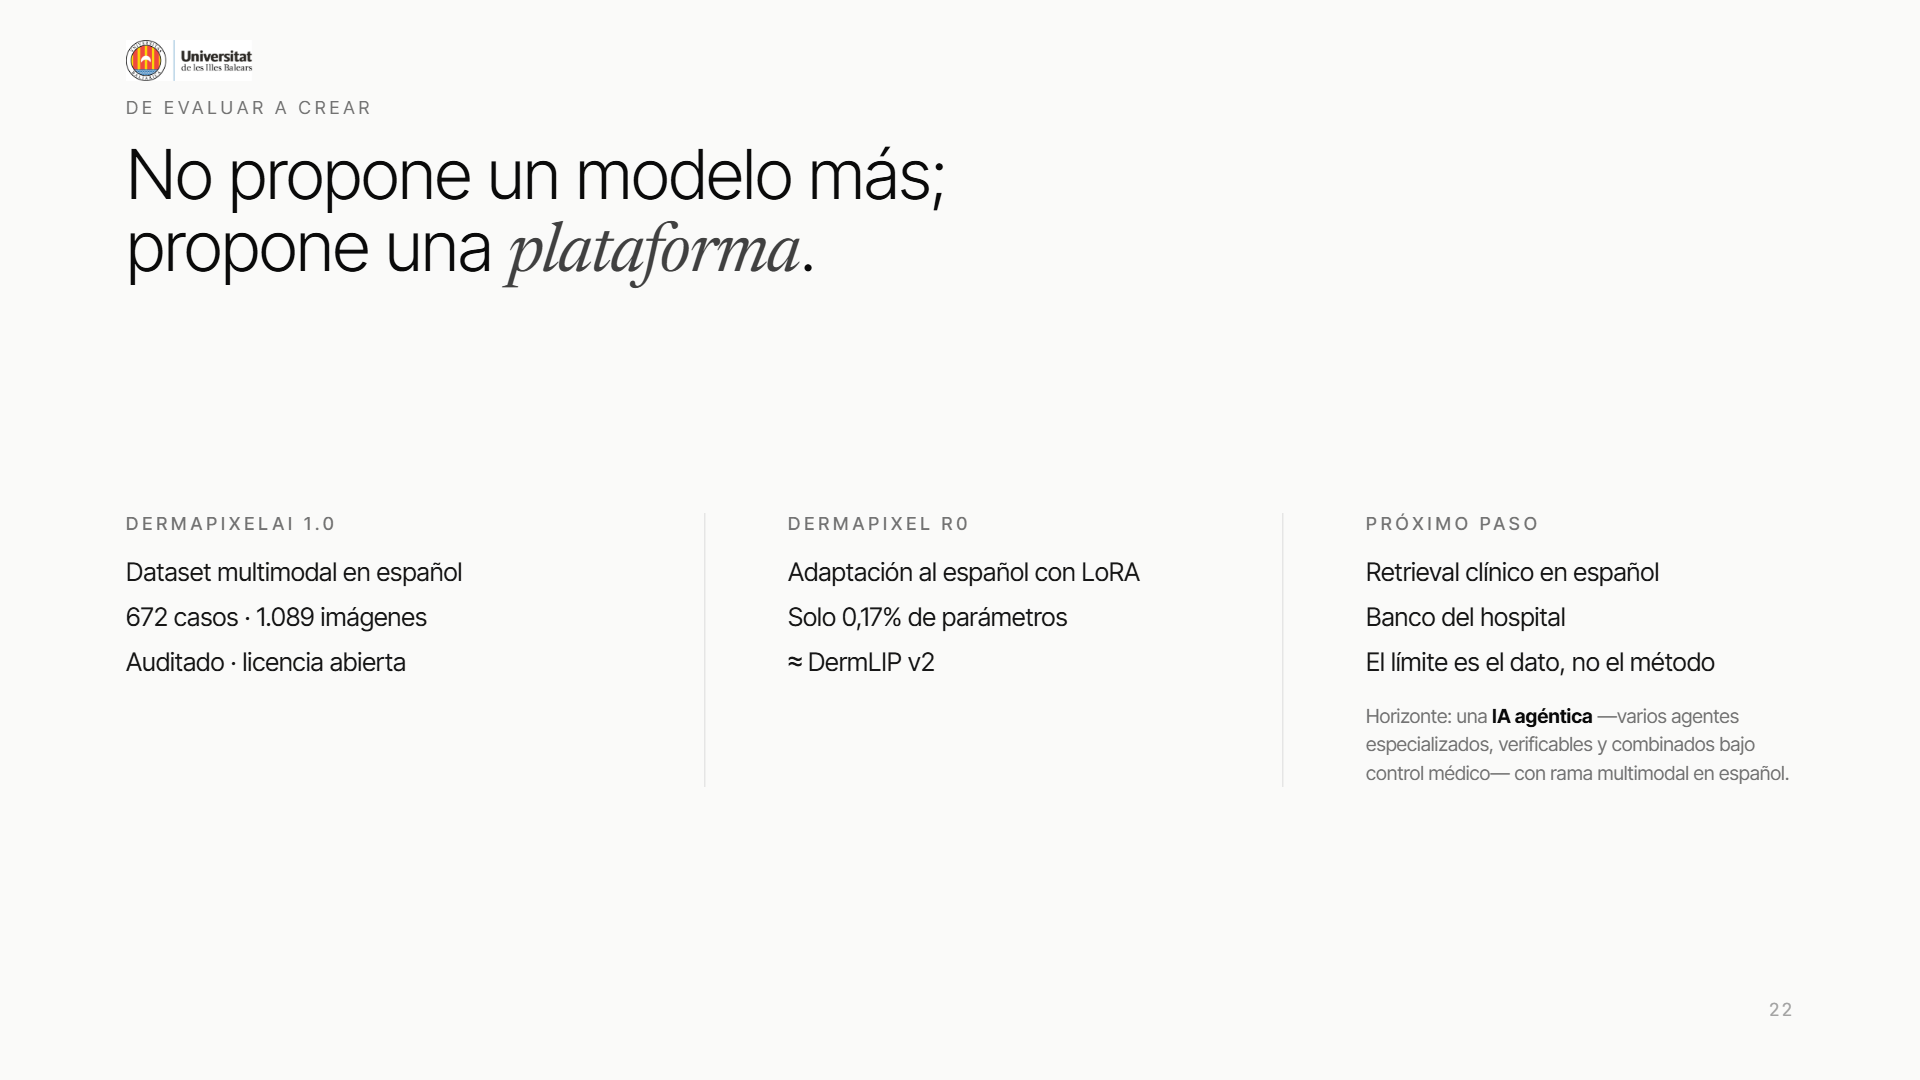
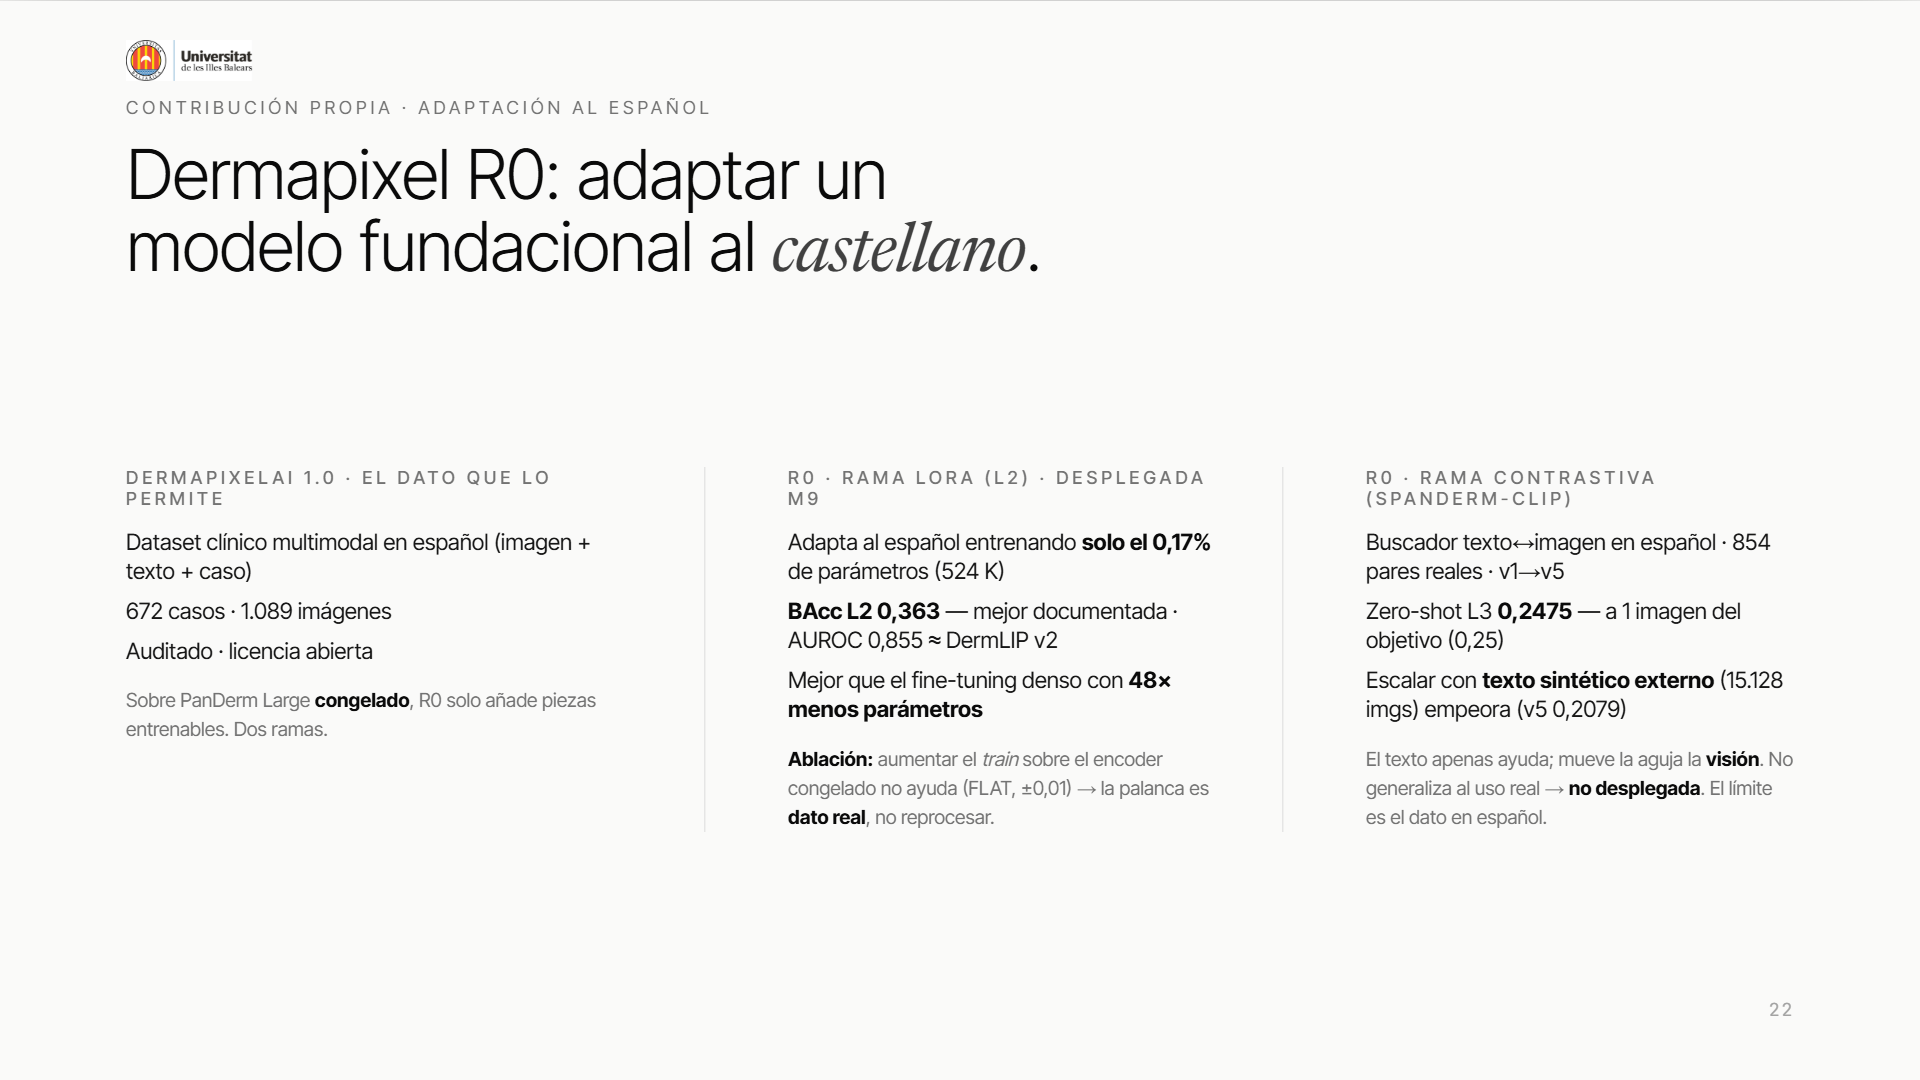
deck slide22: quita columna proximo paso (ya en slide 31) y desarrolla Dermapixel R0 (rama LoRA + rama contrastiva, ablaciones augmentation/escala, texto sintetico, transferencia CLIP)

diff --git a/deck/index.html b/deck/index.html
@@ -878,24 +878,26 @@
   </section>
 
   <!-- ═══ Slide 21 · Contribuciones ═══ -->
-  <section class="slide" data-notes="Además de evaluar, el trabajo aporta tres cosas propias. DermapixelAI 1.0: un dataset clínico en español, multimodal —imagen, texto y caso—, 672 casos y 1.089 imágenes, auditado y liberado. Dermapixel R0: la adaptación de PanDerm al castellano con LoRA, entrenando solo el 0,17% de los parámetros, que iguala a DermLIP en subcategoría; valida que con pocos datos las adaptaciones eficientes ganan al fine-tuning. Y la tercera, honesta: la búsqueda por texto en español es viable pero aún no generaliza; no falla el método, faltan datos. En conjunto, transforman un benchmark en una plataforma. Y a medio plazo, estas piezas encajan en un sistema de IA agéntica: varios agentes especializados que trabajan en paralelo y se combinan bajo control del médico, en lugar de delegar todo en un único modelo.">
+  <section class="slide" data-notes="Además de evaluar, aporto recursos propios. DermapixelAI 1.0: un dataset clínico en español, multimodal —imagen, texto y caso—, 672 casos y 1.089 imágenes, auditado y liberado; es el dato que hace posible lo siguiente. Y Dermapixel R0, la adaptación de PanDerm al castellano, sobre el encoder congelado, con dos ramas. La supervisada, con LoRA: entrena solo el 0,17% de los parámetros, 524 mil, y logra la mejor balanced accuracy documentada en subcategoría, 0,363, empatando en AUROC a DermLIP; rinde mejor que el fine-tuning denso con 48 veces menos parámetros. Y una ablación clara: aumentar el train sobre el encoder congelado no aporta nada —resultado plano, más o menos una centésima—; la palanca son datos reales nuevos, no reprocesar. La segunda rama, contrastiva, SpanDerm-CLIP: un buscador texto-imagen en español, cinco iteraciones sobre 854 pares reales; llega a un zero-shot de subcategoría fina de 0,2475, a una sola imagen del objetivo. Tres hallazgos: mejorar el texto apenas ayuda, lo que mueve la aguja es la parte visual, y escalar con quince mil imágenes externas y descripciones sintéticas generadas por IA empeora el encaje en castellano. No generaliza al uso real, así que no se despliega. La conclusión honesta: no falla el método, falta dato en español.">
     <img class="uib-mark" src="assets/537341_escudoUIB_horizontal.png" alt="Universitat de les Illes Balears">
-    <div class="head"><div class="kicker">De evaluar a crear</div>
-      <h2 class="biglead">No propone un modelo más; propone una <span class="serif">plataforma</span>.</h2></div>
+    <div class="head"><div class="kicker">Contribución propia · adaptación al español</div>
+      <h2 class="biglead">Dermapixel R0: adaptar un modelo fundacional al <span class="serif">castellano</span>.</h2></div>
     <div class="body"><div class="cols3">
-      <div><div class="eyebrow">DermapixelAI 1.0</div><div style="margin-top:14px">
-        <div class="li" style="font-size:17px; margin:8px 0">Dataset multimodal en español</div>
-        <div class="li" style="font-size:17px; margin:8px 0">672 casos · 1.089 imágenes</div>
-        <div class="li" style="font-size:17px; margin:8px 0">Auditado · licencia abierta</div></div></div>
-      <div class="divleft"><div class="eyebrow">Dermapixel R0</div><div style="margin-top:14px">
-        <div class="li" style="font-size:17px; margin:8px 0">Adaptación al español con LoRA</div>
-        <div class="li" style="font-size:17px; margin:8px 0">Solo 0,17% de parámetros</div>
-        <div class="li" style="font-size:17px; margin:8px 0">≈ DermLIP v2</div></div></div>
-      <div class="divleft"><div class="eyebrow">Próximo paso</div><div style="margin-top:14px">
-        <div class="li" style="font-size:17px; margin:8px 0">Retrieval clínico en español</div>
-        <div class="li" style="font-size:17px; margin:8px 0">Banco del hospital</div>
-        <div class="li" style="font-size:17px; margin:8px 0">El límite es el dato, no el método</div>
-        <div class="muted" style="margin-top:16px; font-size:13px; line-height:1.45">Horizonte: una <b style="color:var(--ink)">IA agéntica</b> —varios agentes especializados, verificables y combinados bajo control médico— con rama multimodal en español.</div></div></div>
+      <div><div class="eyebrow">DermapixelAI 1.0 · el dato que lo permite</div><div style="margin-top:12px">
+        <div class="li" style="font-size:15px; margin:7px 0">Dataset clínico multimodal en español (imagen + texto + caso)</div>
+        <div class="li" style="font-size:15px; margin:7px 0">672 casos · 1.089 imágenes</div>
+        <div class="li" style="font-size:15px; margin:7px 0">Auditado · licencia abierta</div>
+        <div class="muted" style="margin-top:14px; font-size:13px; line-height:1.5">Sobre PanDerm Large <b style="color:var(--ink)">congelado</b>, R0 solo añade piezas entrenables. Dos ramas.</div></div></div>
+      <div class="divleft"><div class="eyebrow">R0 · rama LoRA (L2) · desplegada M9</div><div style="margin-top:12px">
+        <div class="li" style="font-size:15px; margin:7px 0">Adapta al español entrenando <b style="color:var(--ink)">solo el 0,17%</b> de parámetros (524 K)</div>
+        <div class="li" style="font-size:15px; margin:7px 0"><b style="color:var(--ink)">BAcc L2 0,363</b> — mejor documentada · AUROC 0,855 ≈ DermLIP v2</div>
+        <div class="li" style="font-size:15px; margin:7px 0">Mejor que el fine-tuning denso con <b style="color:var(--ink)">48× menos parámetros</b></div>
+        <div class="muted" style="margin-top:14px; font-size:13px; line-height:1.5"><b style="color:var(--ink)">Ablación:</b> aumentar el <i>train</i> sobre el encoder congelado no ayuda (FLAT, ±0,01) → la palanca es <b style="color:var(--ink)">dato real</b>, no reprocesar.</div></div></div>
+      <div class="divleft"><div class="eyebrow">R0 · rama contrastiva (SpanDerm-CLIP)</div><div style="margin-top:12px">
+        <div class="li" style="font-size:15px; margin:7px 0">Buscador texto↔imagen en español · 854 pares reales · v1→v5</div>
+        <div class="li" style="font-size:15px; margin:7px 0">Zero-shot L3 <b style="color:var(--ink)">0,2475</b> — a 1 imagen del objetivo (0,25)</div>
+        <div class="li" style="font-size:15px; margin:7px 0">Escalar con <b style="color:var(--ink)">texto sintético externo</b> (15.128 imgs) empeora (v5 0,2079)</div>
+        <div class="muted" style="margin-top:14px; font-size:13px; line-height:1.5">El texto apenas ayuda; mueve la aguja la <b style="color:var(--ink)">visión</b>. No generaliza al uso real → <b style="color:var(--ink)">no desplegada</b>. El límite es el dato en español.</div></div></div>
     </div></div>
     <div class="pageno mono">22</div>
   </section>
